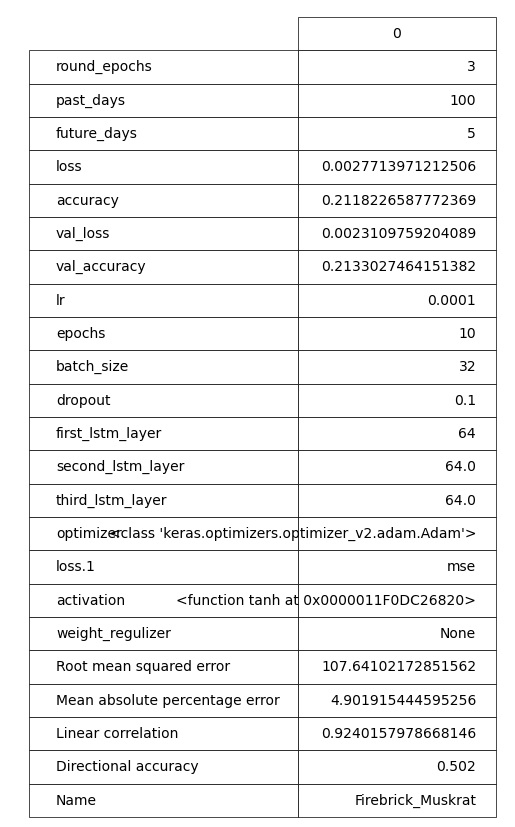
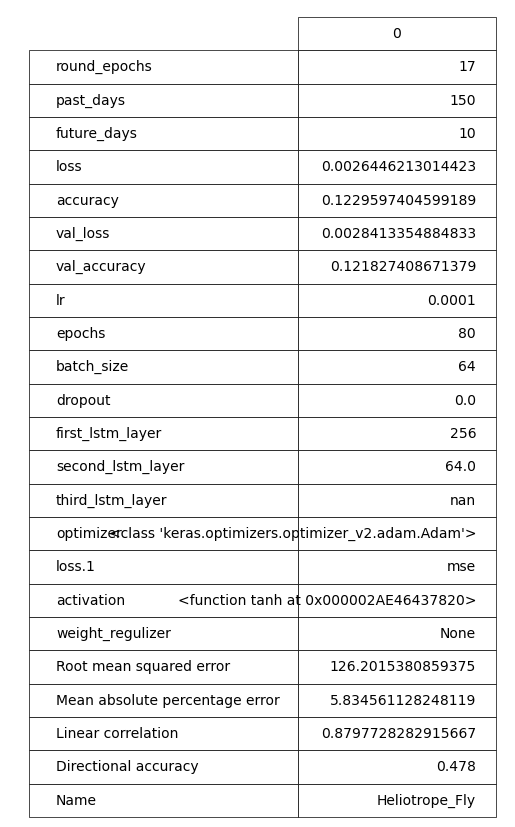
add early stop

diff --git a/run_commands/initiators/initiate_full_research.py b/run_commands/initiators/initiate_full_research.py
@@ -16,12 +16,13 @@ from distutils.dir_util import copy_tree
 import pickle
 from UI.custom_type import ListboxSelection
 import numpy as np
+
 username = os.getlogin()
 
 
 class InitiateResearch:
     def __init__(self, asset: str, df_type: str, past_period: list, future_period: list,
-                 epo: int, testing: bool, source: str, interval: str, custom_layers:bool=False):
+                 epo: int, testing: bool, source: str, interval: str, custom_layers: bool = False):
         """
 
         """
@@ -105,7 +106,7 @@ class InitiateResearch:
         loop_number = 1
         storage = {}
         while loop_number <= self.loops_to_run:
-            loop_number +=1
+            loop_number += 1
             if self.custom_layers == False:
                 self.research_results = _run_training(self.trainX, self.trainY, self.asset,
                                                       self.type, self.past, self.future, self.testing)
@@ -117,12 +118,13 @@ class InitiateResearch:
 
             epochs_test_collector = {}
 
-            for x in [1, 2, 4]:
+            for x in [1]:
 
                 history, predicted_test_x, mod = _perfect_model(self.testing, self.asset, self.data_table_normalized,
                                                                 self.research_results,
                                                                 self.trainX, self.trainY, self.testX, self.testY,
                                                                 epo=int(self.epo / x))
+                self.epo = len(history.history['loss'])
                 yhat = _data_denormalisation(predicted_test_x, self.data_table[['Close']], int(self.future[0]),
                                              self.testY).reshape(-1, 1)
                 actual = _data_denormalisation(self.testY, self.data_table[['Close']], int(self.future[0]),
@@ -160,11 +162,11 @@ class InitiateResearch:
                 sum_frame1.loc['Name'] = unique_name
 
                 collected_data = {'history': history, 'predicted_test_x': predicted_test_x, 'mod': mod,
-                                            'yhat': yhat,
-                                            'actual': actual, 'RMSE': RMSE, 'MAPE': MAPE, 'R': R, 'sf': sf,
-                                            'sum_frame': sum_frame,
-                                            'sum_frame1': sum_frame1, 'sum_frame2': sum_frame2, 'dta': dta,
-                                            'unique_name': unique_name, 'epo_div_x': int(self.epo / x)}
+                                  'yhat': yhat,
+                                  'actual': actual, 'RMSE': RMSE, 'MAPE': MAPE, 'R': R, 'sf': sf,
+                                  'sum_frame': sum_frame,
+                                  'sum_frame1': sum_frame1, 'sum_frame2': sum_frame2, 'dta': dta,
+                                  'unique_name': unique_name, 'epo_div_x': int(self.epo / x)}
                 epochs_test_collector[x] = collected_data.copy()
             # Find the best test result based on the highest directional total accuracy (dta)
             best_test = max(epochs_test_collector, key=lambda x: epochs_test_collector[x]['dta'])
@@ -193,9 +195,10 @@ class InitiateResearch:
             _visualize_prediction_results_daily(pd.DataFrame(self.predicted_test_x), pd.DataFrame(self.testY))
             _visualize_prediction_results(pd.DataFrame(self.predicted_test_x), pd.DataFrame(self.testY))
 
-            self.raw_model_path = _raw_model_saver(self.asset, self.type, self.epo, self.past, self.future, self.interval,
+            self.raw_model_path = _raw_model_saver(self.asset, self.type, self.epo, self.past, self.future,
+                                                   self.interval,
                                                    self.mean_directional_accuracy, self.source,
-                                                   self.unique_name,self.mod)
+                                                   self.unique_name, self.mod)
 
             _dataframe_to_png(self.sum_frame1, "table_training_details")
 
@@ -203,7 +206,8 @@ class InitiateResearch:
 
             _send_discord_message('2nd phase for ' + self.asset + ' ' + self.type + ' has successfully finished')
 
-            self.general_model_table.to_csv(self.raw_model_path[:-7] + "general_model_table.csv", index=False, header=False)
+            self.general_model_table.to_csv(self.raw_model_path[:-7] + "general_model_table.csv", index=False,
+                                            header=False)
 
             old_abs_path = self.root_path + _slash_conversion() + 'vaults' + _slash_conversion() + 'picture_vault'
             new_abs_path = self.raw_model_path[:-7]
@@ -216,12 +220,11 @@ class InitiateResearch:
                     copy_dict.pop('history')
                     pickle.dump(copy_dict, f)
 
-
             # specify the full path of the pickle file
             filename = os.path.join(new_abs_path, 'lstm_research_dict.pickle')
 
             # save the object as a pickle file in the specified directory
-            save(self,filename)
+            save(self, filename)
 
             def save_model_in_model_vault():
                 old_abs_path = self.raw_model_path[:-7]
@@ -233,13 +236,13 @@ class InitiateResearch:
                 print(self.unique_name + ' has been saved in models vault')
                 return None
 
-            if self.R > 0.9 and self.MAPE < 5 and self.RMSE < 10 and dta > 0.51 and self.testing==False:
+            if self.R > 0.9 and self.MAPE < 5 and self.RMSE < 10 and dta > 0.51 and self.testing == False:
                 save_model_in_model_vault()
 
             storage[self.unique_name] = vars(self).copy()
             self.epo = best_test * self.epo
             if self.type == 'Custom':
-                _send_discord_message(f'End of {loop_number-1} loop. Unique name is {self.unique_name}.')
+                _send_discord_message(f'End of {loop_number - 1} loop. Unique name is {self.unique_name}.')
         # Find the dictionary with the highest mean_directional_accuracy
         max_accuracy_dict_key = max(storage, key=lambda x: storage[x]["mean_directional_accuracy"])
 

diff --git a/researchers/research_phase_two.py b/researchers/research_phase_two.py
@@ -1,27 +1,33 @@
-import platform
-import numpy as np
+
+from tensorflow.keras.callbacks import Callback
 import pandas as pd
 import matplotlib.pyplot as plt
 from tensorflow.keras.models import Sequential, load_model
 from tensorflow.keras.layers import LSTM, Dense, Dropout
-import os
+from keras.callbacks import EarlyStopping
+
 import tensorflow as tf
 import keras
 from PATH_CONFIG import _ROOT_PATH
 from utilities.service_functions import _slash_conversion
 from datetime import datetime
+
 plt.style.use('ggplot')
 import warnings
+
 warnings.simplefilter(action='ignore', category=pd.errors.PerformanceWarning)
 pd.options.mode.chained_assignment = None
-#mod = Sequential()
 
-def _perfect_model(testing, asset, df_normalised, table , trainX, trainY, testX, testY, epo=500):
+
+# mod = Sequential()
+
+
+def _perfect_model(testing, asset, df_normalised, table, trainX, trainY, testX, testY, epo=500):
     try:
         best_model = table.iloc[table['loss'].argmin(), :]
     except Exception:
         best_model = table
-    if testing == False and type(table)!=dict:
+    if testing == False and type(table) != dict:
         best_model_df = pd.DataFrame(best_model)
         best_model_df.columns = [datetime.now()]
         best_model_df = best_model_df.T
@@ -29,14 +35,22 @@ def _perfect_model(testing, asset, df_normalised, table , trainX, trainY, testX,
         slash = _slash_conversion()
         _dir = _ROOT_PATH()
         slash = _slash_conversion()
-        best_model_df.to_csv(_dir + slash + 'vaults' + slash +'data_vault' + slash+'best_models_register.csv', mode='a', index=True, header=False)
+        best_model_df.to_csv(_dir + slash + 'vaults' + slash + 'data_vault' + slash + 'best_models_register.csv',
+                             mode='a', index=True, header=False)
     else:
         pass
 
     mod = Sequential()
     epo = epo
+
+    class CustomEarlyStopping(Callback):
+        def on_epoch_end(self, epoch, logs={}):
+            if logs.get('loss') <= logs.get('val_loss'):
+                self.model.stop_training = True
+
+    custom_early_stopping = CustomEarlyStopping()
     # Enable eager execution
-    #tf.config.run_functions_eagerly(True)
+    # tf.config.run_functions_eagerly(True)
     def directional_loss(y_true, y_pred):
         # Calculate the difference between consecutive elements in y_true and y_pred
         y_true_cumsum = tf.cumsum(y_true, axis=1)
@@ -72,8 +86,9 @@ def _perfect_model(testing, asset, df_normalised, table , trainX, trainY, testX,
         mod.add(Dense(trainY.shape[1]))
         opt = keras.optimizers.Adam(lr=best_model['lr'])
         mod.compile(opt, loss='mse', metrics=['accuracy'])
+        earlystop = EarlyStopping(monitor='loss', min_delta=0, patience=100, verbose=1, mode='min')
         history = mod.fit(trainX, trainY, batch_size=int(best_model['batch_size']), epochs=epo, verbose=1,
-                          validation_data=[testX, testY])
+                          validation_data=[testX, testY],callbacks=[custom_early_stopping])
     if str(best_model['second_lstm_layer']) != 'nan' and str(best_model['third_lstm_layer']) == 'nan':
         mod.add(LSTM(int(best_model['first_lstm_layer']), return_sequences=True, activation='tanh',
                      input_shape=(trainX.shape[1], trainX.shape[2])))
@@ -84,8 +99,9 @@ def _perfect_model(testing, asset, df_normalised, table , trainX, trainY, testX,
         mod.add(Dense(trainY.shape[1]))
         opt = keras.optimizers.Adam(lr=best_model['lr'])
         mod.compile(opt, loss='mse', metrics=['accuracy'])
+        earlystop = EarlyStopping(monitor='loss', min_delta=0, patience=100, verbose=1, mode='min')
         history = mod.fit(trainX, trainY, batch_size=int(best_model['batch_size']), epochs=epo, verbose=1,
-                          validation_data=[testX, testY])
+                          validation_data=[testX, testY],callbacks=[custom_early_stopping])
 
     if str(best_model['second_lstm_layer']) != 'nan' and str(best_model['third_lstm_layer']) != 'nan':
         mod.add(LSTM(int(best_model['first_lstm_layer']), return_sequences=True, activation='tanh',
@@ -100,19 +116,20 @@ def _perfect_model(testing, asset, df_normalised, table , trainX, trainY, testX,
         mod.add(Dense(trainY.shape[1]))
         opt = keras.optimizers.Adam(lr=best_model['lr'])
         mod.compile(opt, loss='mse', metrics=['accuracy'])
+        earlystop = EarlyStopping(monitor='loss', min_delta=0, patience=100, verbose=1, mode='min')
         history = mod.fit(trainX, trainY, batch_size=int(best_model['batch_size']), epochs=epo, verbose=1,
-                          validation_data=[testX, testY])
-    prediction =mod.predict(testX).tolist()
-    return history, prediction,mod
+                          validation_data=[testX, testY], callbacks=[custom_early_stopping])
+    prediction = mod.predict(testX).tolist()
+    return history, prediction, mod
 
-def _raw_model_saver(asset,df_type,epo,past,future,interval,dta,source,unique_name,mod):
+
+def _raw_model_saver(asset, df_type, epo, past, future, interval, dta, source, unique_name, mod):
     file_name = asset + '_' + df_type + '_' + str(epo) + '_' + str(past[0]) + '_' + str(
         future[0]) + '_' + interval + '_A_' + str(round(dta, 2)) + '_S_' + source[
                     0] + '_' + unique_name
     folder_path = 'raw_model_vault'
-    _dir= _ROOT_PATH()
+    _dir = _ROOT_PATH()
     slash = _slash_conversion()
-    full_path = _dir  + slash + "vaults" +slash + folder_path + slash + 'LSTM_research_models' + slash + file_name + slash + 'LSTM.h5'
+    full_path = _dir + slash + "vaults" + slash + folder_path + slash + 'LSTM_research_models' + slash + file_name + slash + 'LSTM.h5'
     mod.save(full_path)
     return full_path
-

diff --git a/data_service/vendors_data/meteo_downloader.py b/data_service/vendors_data/meteo_downloader.py
@@ -30,10 +30,12 @@ def get_daily_meteo(most_dense: bool = True) -> pd.DataFrame:
 
     if most_dense:
         # These are the latitude, longitude and altitude for Vancouver, BC
-        vanc = Point(49.2497, -123.1193, 70), 'Vancouver'
-        # And an arbitrary point "Far from Vancouver"
-        citi2 = Point(48.2497, -122.1193, 70), 'Far from Vancouver'
-        cities_cordinates_lst = [vanc, citi2]
+        vanc = Point(49.2497, -123.1193, 0), 'Vancouver'
+        pho = Point(33.46076014614866, -112.0869992615002), 'Phoenix'
+        los_ang = Point(34.04849688640299, -118.25008238877551), 'Los Angeles'
+        hou = Point(29.88064262016017, -95.92717225525821), 'Houston'
+        chi = Point(41.89034725724475, -87.63206686339016), 'Chicago'
+        cities_cordinates_lst = [vanc, pho, los_ang, hou, chi]
     else:
         raise Exception('Only default cities allowed so far.')
 
@@ -46,7 +48,7 @@ def get_daily_meteo(most_dense: bool = True) -> pd.DataFrame:
         # The fetch function fetches the data from Meteostat and
         # the indexer at the end is used to filter only the 'tavg' (average temperature) column
         data = Daily(citi[0], start, end)
-        data = data.fetch()[['tavg']]
+        data = data.fetch()[['tavg']] + 100
 
         # Rename the column to include the city name
         city_name = citi[1]
@@ -59,5 +61,3 @@ def get_daily_meteo(most_dense: bool = True) -> pd.DataFrame:
         full_df = pd.concat([full_df, data], axis=1)
 
     return full_df
-
-

diff --git a/data_service/data_preparation.py b/data_service/data_preparation.py
@@ -6,6 +6,7 @@ from data_service.vendors_data import binance_downloader as bd
 from data_service.vendors_data.av_downloader import AVDownloader
 from data_service.vendors_data.macro_downloader import mc_downloader as mc
 from data_service.vendors_data.sentiment_downloader import senti
+from data_service.vendors_data.meteo_downloader import get_daily_meteo
 
 
 class DataPreparation:
@@ -172,6 +173,9 @@ class DataPreparation:
                 raise Exception('For macro data use only 1d or 1wk interval.')
             return df
 
+        def meteo():
+            return get_daily_meteo()
+
         def fundamentals(asset):
             """"
             bps = pd.read_pickle('bps800').loc['2011-01-01':, asset]
@@ -223,6 +227,9 @@ class DataPreparation:
                 q9 = ranked_crypto_sentiment_daily()
                 q1 = q1.merge(q8, how='left', left_index=True, right_index=True)
                 q1 = q1.merge(q9, how='left', left_index=True, right_index=True)
+            q10 = meteo()
+            q1 = q1.merge(q10, how='left', left_index=True, right_index=True)
+
             df = pd.concat([q1, q2, q3, q4, q5, q6, q7], axis=1)
             df = df.loc[:, ~df.columns.duplicated()]
 

diff --git a/run_commands/run_command_1.py b/run_commands/run_command_1.py
@@ -14,8 +14,7 @@ from distutils.dir_util import copy_tree
 log = logging.getLogger('werkzeug')
 log.setLevel(logging.ERROR)
 
-
-testing = True
+testing = False
 
 if testing == True:
     df = pd.read_excel(r'inputs/init_test.xlsx')
